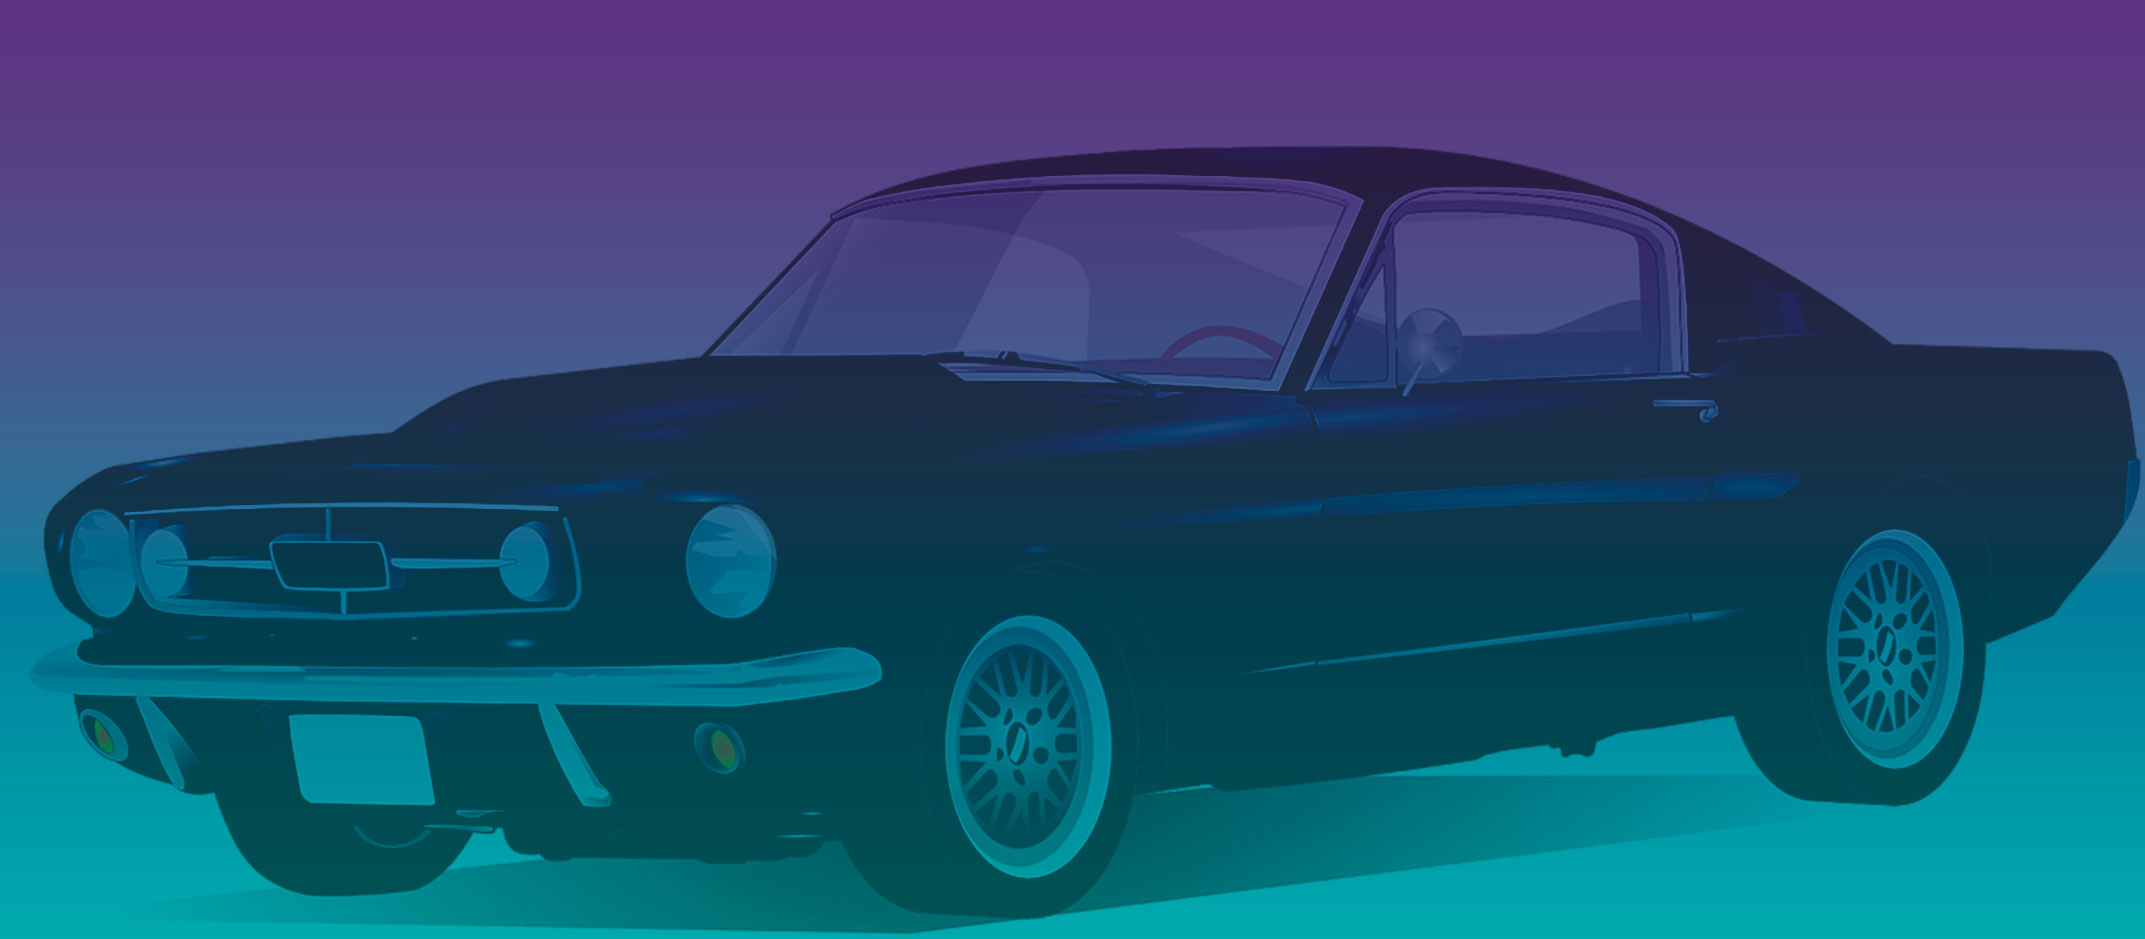
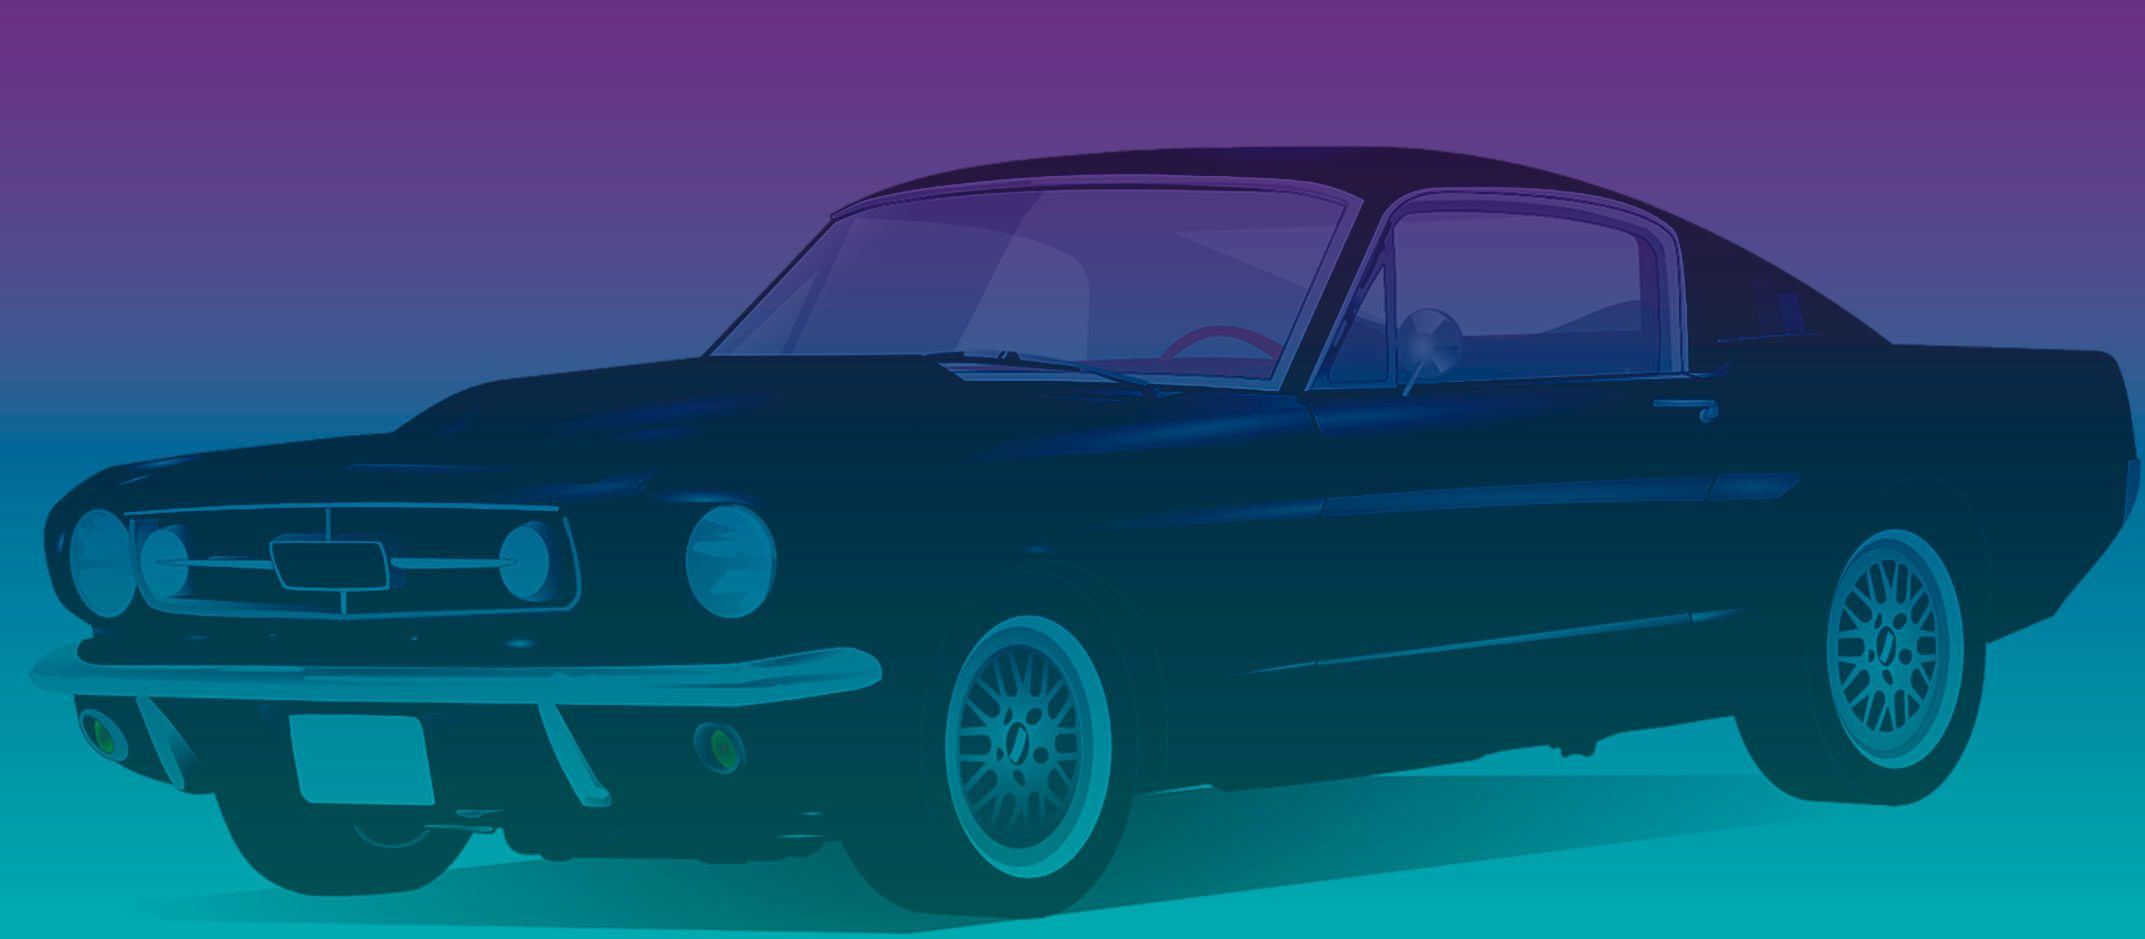
optimized photos

diff --git a/src/index.js b/src/index.js
@@ -4,6 +4,7 @@ import './style.css';
 import firstAbout from "../src/images/about-1.jpg";
 import secondAbout from "../src/images/about-2.jpg";
 import thirdAbout from "../src/images/about-3.jpg";
+import vehicle from "../src/images/vehicle.jpg";
 
 const App = () => {
   return(
@@ -53,6 +54,13 @@ const App = () => {
               <img src={thirdAbout} alt="Ford Mustang engine"></img>
             </div>
             <div className="about__text">Прекрасное портфолио</div>
+          </div>
+        </div>
+      </section>
+      <section className="section--vehicles">
+        <div className="container">
+          <div className="section__header">
+            <h2 className="section__suptitle">Обслуживаем все марки автомобилей</h2>
           </div>
         </div>
       </section>

diff --git a/src/style.css b/src/style.css
@@ -149,3 +149,24 @@ body {
 .about__item:hover .about__text {
   opacity: 1;
 }
+
+.vehicles {
+    width: 100%;
+    max-width: 600px;
+    margin: 0 auto;
+    position: relative;
+    background: url(./images/vehicle.jpg);
+}
+
+.vehicles__item img {
+  width: 100%;
+  height: 100vh;
+
+}
+
+.vehicles__item--iphone {
+    position: absolute;
+    bottom: -80px;
+    right: 0;
+    z-index: 1;
+}
